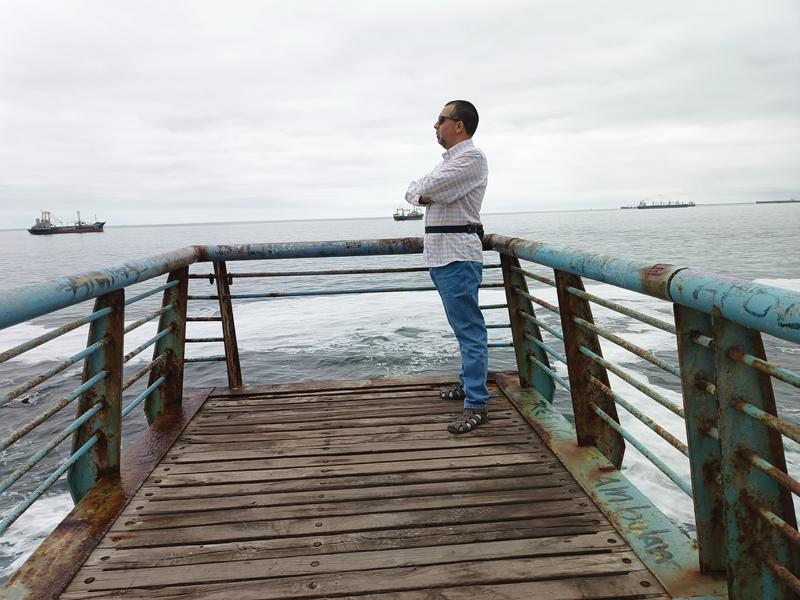
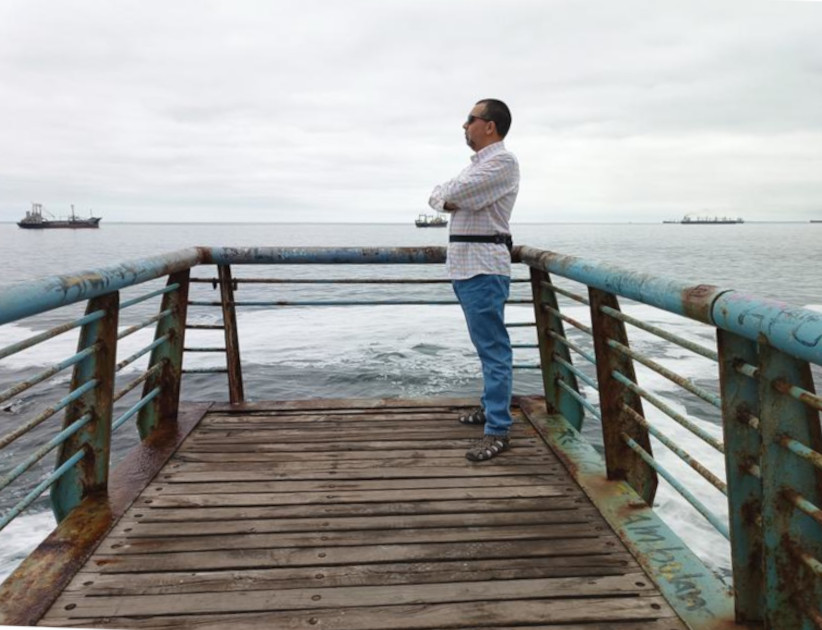
Se ajusta foto y se modifica un párrafo

diff --git a/posts/2025-12-13-resumen-del-year.html b/posts/2025-12-13-resumen-del-year.html
@@ -114,7 +114,8 @@
 <p>Finalmente, esta foto fue visitando un museo, creo que es una foto de muchas fotos... Algunas históricas, quizás ni siquiera se hayan digitalizado, pero ahí quedaron, para la posteridad... </p>
 <p><img alt="Recuento" src="/media/2025/diciembre/autos.jpg" style="width: auto; max-width: 100% !important;">  </p>
 <p>Bueno, estas fueron las fotos que seleccionó mi IA que está tan de moda XDDD, nah, es un script, que selecciona las 12 fotos al azar del año... Espero que les haya gustado... </p>
-<p>También, espero que sea un año lleno de cosas positivas para todos y cada uno de uds que lee... Son mis sinceros deseos... </p>
+<p>También, espero que sea un año lleno de cosas positivas para todos y cada uno de uds que lee... Que este nuevo año llegue con serenidad para enfrentar los desafíos, claridad para tomar buenas decisiones y fuerza para seguir adelante incluso cuando el camino no sea sencillo. Que no falten los aprendizajes, <code>la salud</code>, el trabajo y los pequeños momentos que dan sentido a la vida. </p>
+<p>Son mis sinceros deseos... </p>
 <p>Un saludo.</p>
   </div>
 </article>
